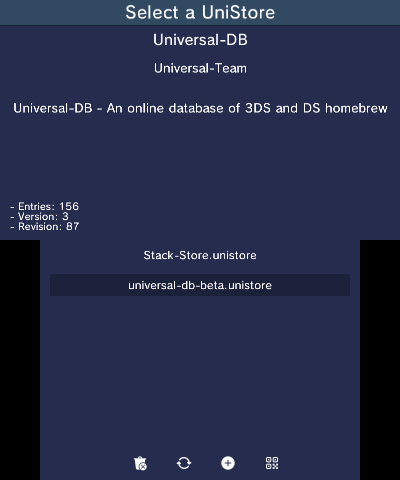
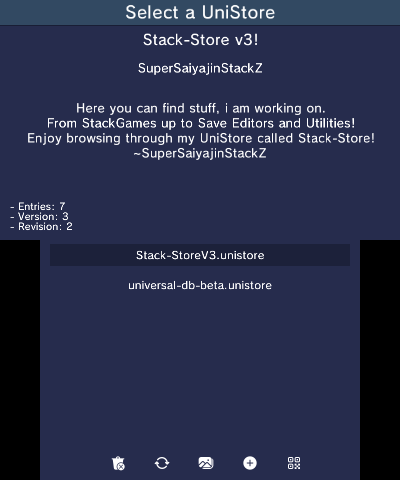
See desc for more.
- Delete file, if download failed. This avoids having a useless file on the SD Card, when the download is not finished.

- Add a spritesheet download icon on Store Selection.

diff --git a/source/overlays/storeSelect.cpp b/source/overlays/storeSelect.cpp
@@ -46,10 +46,11 @@ static const std::vector<Structs::ButtonPos> mainButtons = {
 	{ 10, 184, 300, 22 },
 
 	/* Add, Delete, Info.. */
-	{ 92, 215, 16, 16 },
-	{ 136, 215, 16, 16 },
-	{ 180, 215, 16, 16 },
-	{ 224, 215, 16, 16 }
+	{ 70, 215, 16, 16 },
+	{ 114, 215, 16, 16 },
+	{ 158, 215, 16, 16 },
+	{ 202, 215, 16, 16 },
+	{ 246, 215, 16, 16 }
 };
 
 /*
@@ -65,8 +66,6 @@ static void DeleteStore(const std::string &file) {
 	/* Check, if Spritesheet exist on UniStore. */
 	if (storeJson["storeInfo"].contains("sheet") && storeJson["storeInfo"]["sheet"].is_array()) {
 		const std::vector<std::string> sht = storeJson["storeInfo"]["sheet"].get<std::vector<std::string>>();
-
-
 
 		/* Cause it's an array, delete all Spritesheets which exist. */
 		for (int i = 0; i < (int)sht.size(); i++) {
@@ -154,6 +153,56 @@ static bool DownloadStore(bool Cam = true) {
 }
 
 /*
+	Re-Download SpriteSheets optional.
+
+	const std::string &file: Const Reference to the UniStore filename.
+*/
+static bool DownloadSheet(const std::string &file) {
+	FILE *temp = fopen((std::string(_STORE_PATH) + file).c_str(), "rt");
+	nlohmann::json storeJson = nlohmann::json::parse(temp, nullptr, false);
+	fclose(temp);
+
+	if (storeJson["storeInfo"].contains("sheetURL") && storeJson["storeInfo"]["sheetURL"].is_array()) {
+			if (storeJson["storeInfo"].contains("sheet") && storeJson["storeInfo"]["sheet"].is_array()) {
+				const std::vector<std::string> locs = storeJson["storeInfo"]["sheetURL"].get<std::vector<std::string>>();
+				const std::vector<std::string> sht = storeJson["storeInfo"]["sheet"].get<std::vector<std::string>>();
+
+				if (locs.size() == sht.size()) {
+					for (int i = 0; i < (int)sht.size(); i++) {
+						if (!(sht[i].find("/") != std::string::npos)) {
+							char msg[150];
+							snprintf(msg, sizeof(msg), Lang::get("DOWNLOADING_SPRITE_SHEET2").c_str(), i + 1, sht.size());
+							Msg::DisplayMsg(msg);
+							DownloadSpriteSheet(locs[i], sht[i]);
+
+						} else {
+							Msg::waitMsg(Lang::get("SHEET_SLASH"));
+							return false;
+						}
+					}
+				}
+			}
+
+	} else if (storeJson["storeInfo"].contains("sheetURL") && storeJson["storeInfo"]["sheetURL"].is_string()) {
+		if (storeJson["storeInfo"].contains("sheet") && storeJson["storeInfo"]["sheet"].is_string()) {
+			const std::string fl = storeJson["storeInfo"]["sheetURL"];
+			const std::string fl2 = storeJson["storeInfo"]["sheet"];
+
+			if (!(fl2.find("/") != std::string::npos)) {
+				Msg::DisplayMsg(Lang::get("DOWNLOADING_SPRITE_SHEET"));
+				DownloadSpriteSheet(fl, fl2);
+
+			} else {
+				Msg::waitMsg(Lang::get("SHEET_SLASH"));
+				return false;
+			}
+		}
+	}
+
+	return true;
+}
+
+/*
 	This is the UniStore Manage Handle.
 	Here you can..
 
@@ -226,8 +275,9 @@ void Overlays::SelectStore(std::unique_ptr<Store> &store, std::vector<std::uniqu
 
 		GFX::DrawSprite(sprites_delete_idx, mainButtons[7].x, mainButtons[7].y);
 		GFX::DrawSprite(sprites_update_idx, mainButtons[8].x, mainButtons[8].y);
-		GFX::DrawSprite(sprites_add_idx, mainButtons[9].x, mainButtons[9].y);
-		GFX::DrawSprite(sprites_qr_code_idx, mainButtons[10].x, mainButtons[10].y);
+		GFX::DrawSprite(sprites_sheet_idx, mainButtons[9].x, mainButtons[9].y);
+		GFX::DrawSprite(sprites_add_idx, mainButtons[10].x, mainButtons[10].y);
+		GFX::DrawSprite(sprites_qr_code_idx, mainButtons[11].x, mainButtons[11].y);
 		C3D_FrameEnd(0);
 
 		hidScanInput();
@@ -300,6 +350,16 @@ void Overlays::SelectStore(std::unique_ptr<Store> &store, std::vector<std::uniqu
 				}
 			}
 
+			/* Delete UniStore. */
+			if (hidKeysDown() & KEY_TOUCH && touching(touch, mainButtons[7])) {
+				if (info[selection].FileName != "") {
+					DeleteStore(info[selection].FileName);
+					selection = 0;
+					info = GetUniStoreInfo(_STORE_PATH);
+				}
+			}
+
+			/* Update checks. */
 			if (hidKeysDown() & KEY_TOUCH && touching(touch, mainButtons[8])) {
 				if (checkWifiStatus()) {
 					if (info[selection].Revision > 0) {
@@ -309,11 +369,12 @@ void Overlays::SelectStore(std::unique_ptr<Store> &store, std::vector<std::uniqu
 				}
 			}
 
-			if (hidKeysDown() & KEY_TOUCH && touching(touch, mainButtons[7])) {
-				if (info[selection].FileName != "") {
-					DeleteStore(info[selection].FileName);
-					selection = 0;
-					info = GetUniStoreInfo(_STORE_PATH);
+			/* SpriteSheet Download. */
+			if (hidKeysDown() & KEY_TOUCH && touching(touch, mainButtons[9])) {
+				if (checkWifiStatus()) {
+					if (info[selection].FileName != "") {
+						DownloadSheet(info[selection].FileName);
+					}
 				}
 			}
 
@@ -321,7 +382,8 @@ void Overlays::SelectStore(std::unique_ptr<Store> &store, std::vector<std::uniqu
 			else if (selection > sPos + 7 - 1) sPos = selection - 7 + 1;
 		}
 
-		if ((hidKeysDown() & KEY_Y) || (hidKeysDown() & KEY_TOUCH && touching(touch, mainButtons[9]))) {
+		/* UniStore URL Download. */
+		if ((hidKeysDown() & KEY_Y) || (hidKeysDown() & KEY_TOUCH && touching(touch, mainButtons[10]))) {
 			if (checkWifiStatus()) {
 				if (DownloadStore(false)) {
 					selection = 0;
@@ -330,7 +392,8 @@ void Overlays::SelectStore(std::unique_ptr<Store> &store, std::vector<std::uniqu
 			}
 		}
 
-		if (hidKeysDown() & KEY_TOUCH && touching(touch, mainButtons[10])) {
+		/* UniStore QR Code Download. */
+		if (hidKeysDown() & KEY_TOUCH && touching(touch, mainButtons[11])) {
 			if (checkWifiStatus()) {
 				if (DownloadStore()) {
 					selection = 0;

diff --git a/source/utils/download.cpp b/source/utils/download.cpp
@@ -38,6 +38,7 @@
 #include <malloc.h>
 #include <regex>
 #include <string>
+#include <unistd.h>
 #include <vector>
 
 #define USER_AGENT APP_TITLE "-" VERSION_STRING
@@ -45,8 +46,6 @@
 static char *result_buf = nullptr;
 static size_t result_sz = 0;
 static size_t result_written = 0;
-std::vector<std::string> _topText;
-std::string jsonName;
 
 #define TIME_IN_US 1
 #define TIMETYPE curl_off_t
@@ -138,13 +137,13 @@ static size_t file_handle_data(char *ptr, size_t size, size_t nmemb, void *userd
 }
 
 Result downloadToFile(const std::string &url, const std::string &path) {
+	bool needToDelete = false;
 	downloadTotal = 1;
 	downloadNow = 0;
 
 	CURLcode curlResult;
 	CURL *hnd;
 	Result retcode = 0;
-	downloadTotal = 1;
 	int res;
 
 	printf("Downloading from:\n%s\nto:\n%s\n", url.c_str(), path.c_str());
@@ -191,6 +190,7 @@ Result downloadToFile(const std::string &url, const std::string &path) {
 
 	if (curlResult != CURLE_OK) {
 		retcode = -curlResult;
+		needToDelete = true;
 		goto exit;
 	}
 
@@ -203,6 +203,7 @@ Result downloadToFile(const std::string &url, const std::string &path) {
 
 	if (!filecommit()) {
 		retcode = -3;
+		needToDelete = true;
 		goto exit;
 	}
 
@@ -240,6 +241,11 @@ exit:
 	file_buffer_pos = 0;
 	file_toCommit_size = 0;
 	writeError = false;
+
+	if (needToDelete) {
+		if (access(path.c_str(), F_OK) == 0) deleteFile(path.c_str()); // Delete file, cause not fully downloaded.
+	}
+
 	return retcode;
 }
 
